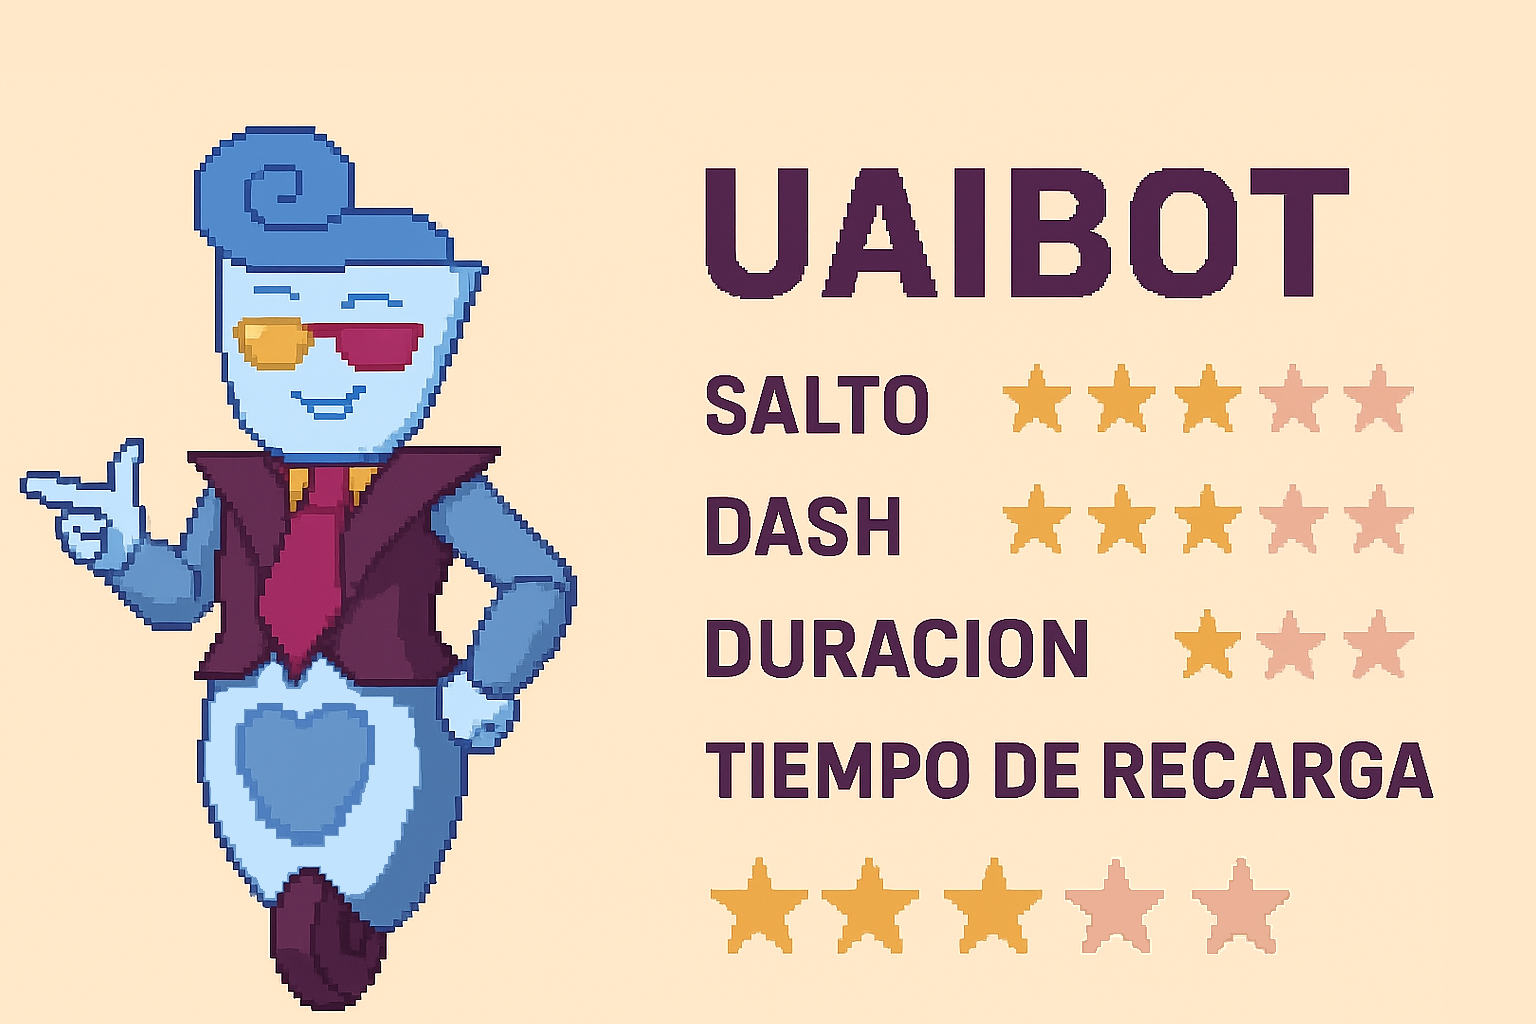
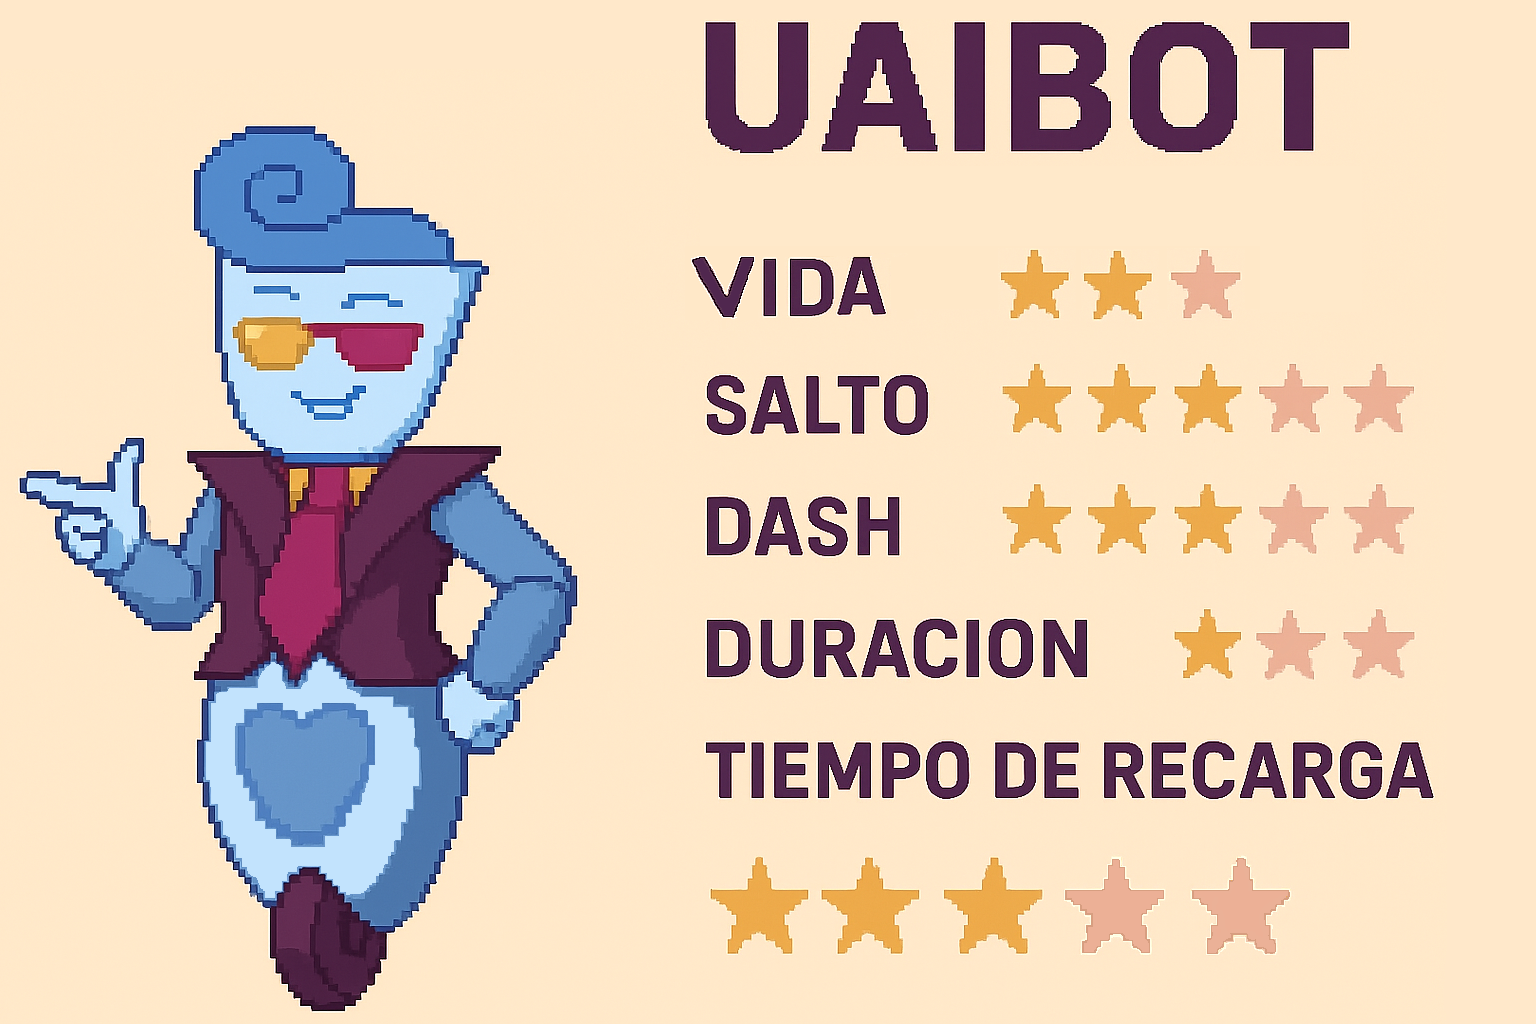
hechotarjetadepj tuve los mejores dibujos de mi vida

Changed region(s): [[0.4375, 0.0, 0.9062, 0.3125]]

diff --git a/src/screens/character_screen.py b/src/screens/character_screen.py
@@ -16,7 +16,7 @@ class CharacterScreen(Scene):
         scale_x = ANCHO_PANTALLA / original_width
         scale_y = ALTO_PANTALLA / original_height
 
-        original_area = pygame.Rect(225, 160, 575, 260)
+        original_area = pygame.Rect(244, 110, 544, 314)
         self.billboard_area = pygame.Rect(
             int(original_area.x * scale_x),
             int(original_area.y * scale_y),
@@ -24,12 +24,11 @@ class CharacterScreen(Scene):
             int(original_area.height * scale_y)
         )
 
-        # Lista de personajes disponibles (puedes añadir mas)
         self.characters = [
             ("UIAbot", self.resource_manager.get_image("cartel_uaibot")),
-            ("UAIBOTA", self.resource_manager.get_image("personaje3")),
+            ("UAIBOTA", self.resource_manager.get_image("cartel_uaibota")),
             ("UAIBOTINA", self.resource_manager.get_image("cartel_uaibotina")),
-            ("UAIBOTINO", self.resource_manager.get_image("UAIBOTINO_walk")),
+            ("UAIBOTINO", self.resource_manager.get_image("cartel_uaibotino")),
         ]
         self.current_index = 0
 
@@ -50,7 +49,7 @@ class CharacterScreen(Scene):
                 self.billboard_area.width / card_rect.width,
                 self.billboard_area.height / card_rect.height
             )
-            new_width = int(card_rect.width * scale_ratio * 1.20)
+            new_width = int(card_rect.width * scale_ratio * 1.16)
             new_height = int(card_rect.height * scale_ratio)
 
             self.character_scaled = pygame.transform.scale(image, (new_width, new_height))

diff --git a/src/core/game_manager.py b/src/core/game_manager.py
@@ -45,7 +45,8 @@ class GameManager:
         self.resource_manager.load_image("cartel", "Assets/Imagenes/Background/billboard.png")
         self.resource_manager.load_image("cartel_uaibot", "Assets/Imagenes/cartel_uaibot.png")
         self.resource_manager.load_image("cartel_uaibotina", "Assets/Imagenes/cartel_uaibotina.png")
-        self.resource_manager.load_image("personaje3", "Assets/Imagenes/Uiabota_info.png")
+        self.resource_manager.load_image("cartel_uaibota", "Assets/Imagenes/cartel_uaibota.png")
+        self.resource_manager.load_image("cartel_uaibotino", "Assets/Imagenes/cartel_uaibotino.png")
         self.resource_manager.load_image("character_a", "Assets/Sprites/UAIBOTAz.png")
         # PERSONAJES 
         # UIAbot: tiene spritesheet con animacion
